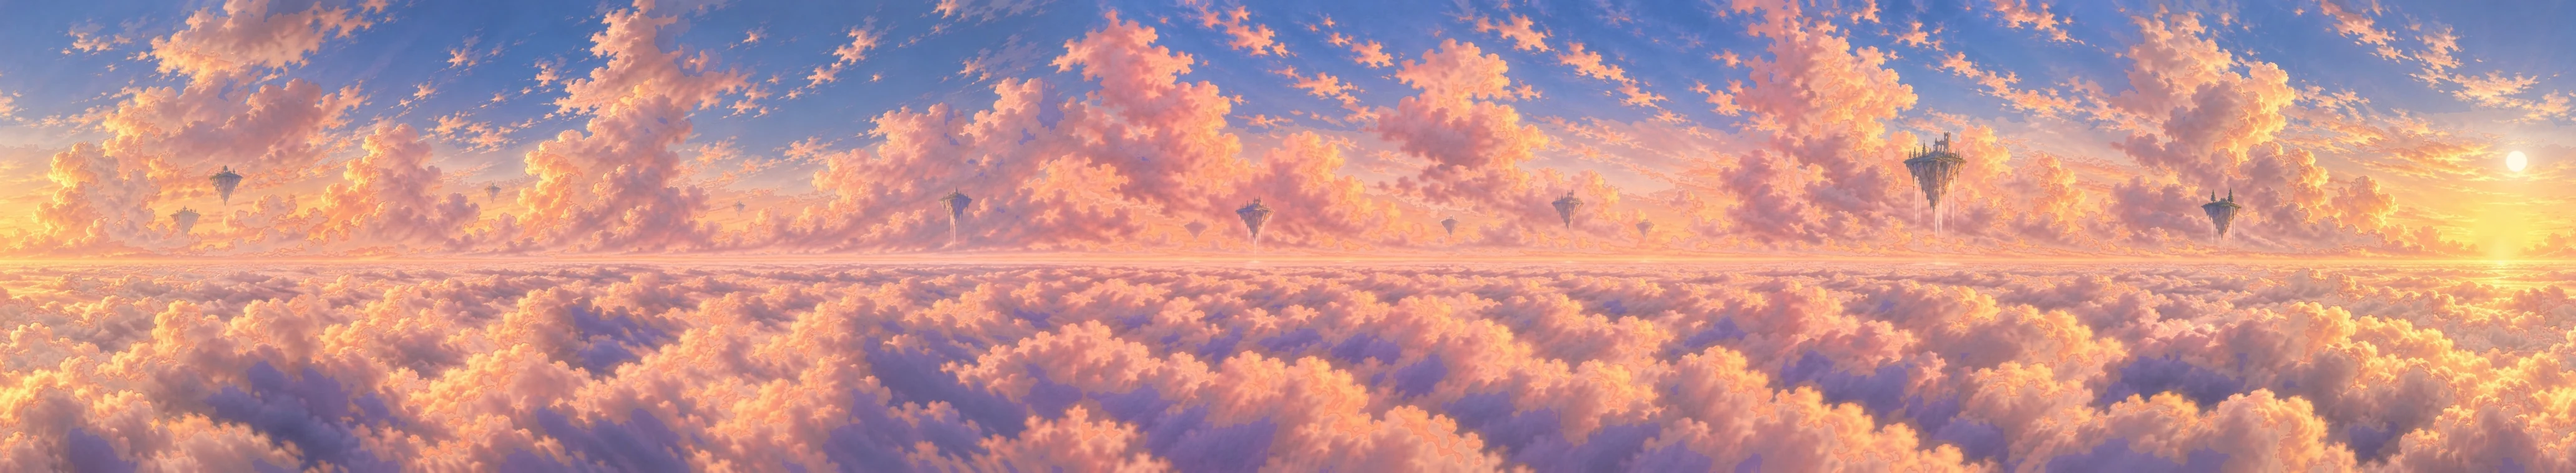
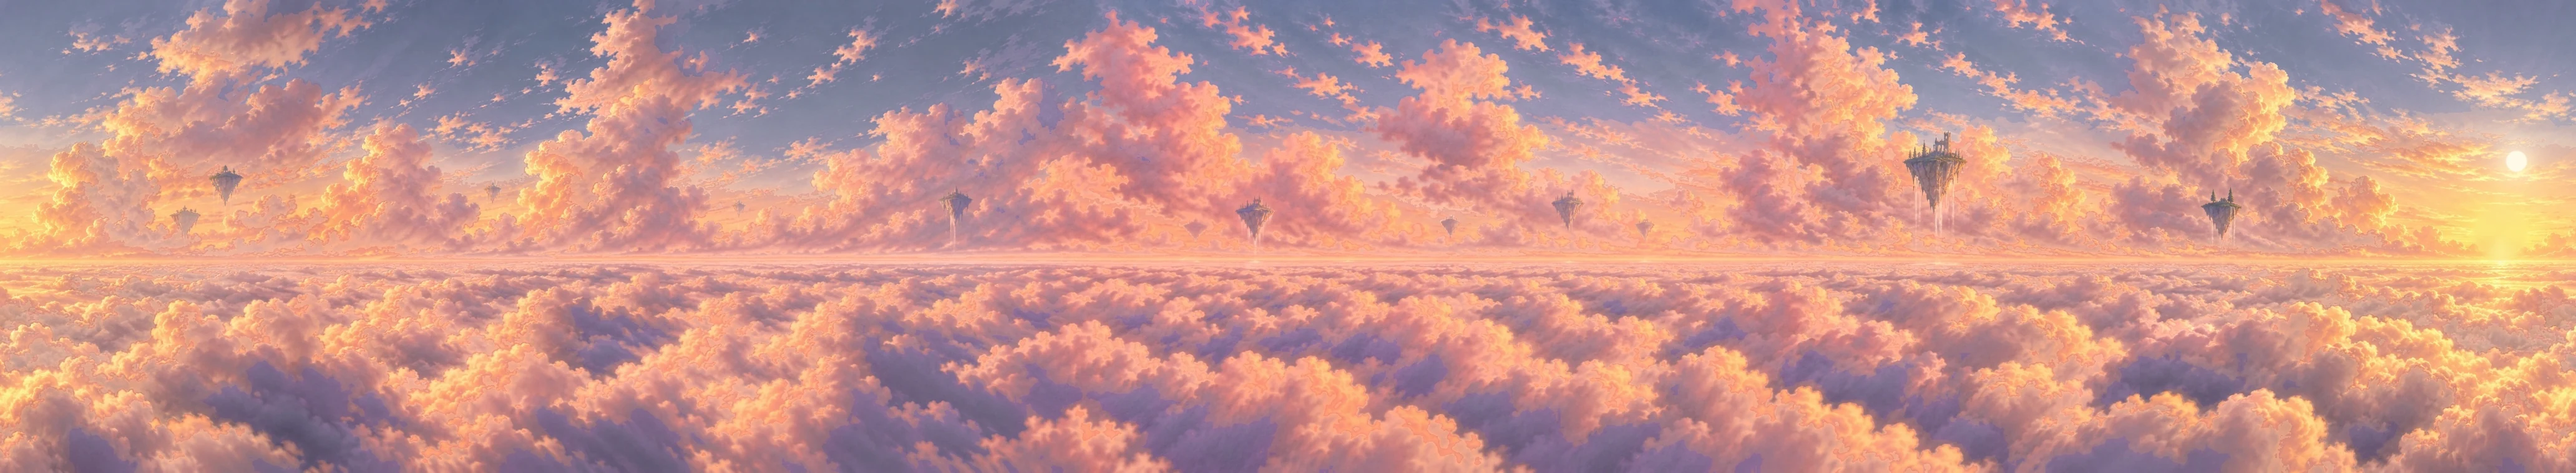
E392/E399 Sky Reach: the sun gold in an amber bloom, not white, and the panorama's blue middle sky pulled toward peach-lavender, more toward the horizon (art/far-reach/round-17-mockup-loop/warm-sky.py on panorama-sun.jpg -> panorama-warm.jpg -> prep.py 564; the seats: 'the sun white, the upper sky b
Claude-Session: https://claude.ai/code/session_01KzpL9cMyh5i2XoaL4jSdNw

Changed region(s): [[0.125, 0.0, 0.6875, 0.2124], [0.7188, 0.0, 0.9062, 0.1517], [0.0, 0.0, 0.0625, 0.0607]]

diff --git a/src/shards/far-reach/look/panoramaData.ts b/src/shards/far-reach/look/panoramaData.ts
@@ -6,9 +6,9 @@ export const PANO_DEG_PER_V = 66.667;
 /** columns of wrap on either side of the shipped strips (the shader maps the heading inside them) */
 export const PANO_PAD_PX = 16;
 /** the painted sun: heading (degrees, 0 = -z, 90 = +x) and elevation (degrees) */
-export const PANO_SUN = { heading: 352.96, elevation: 13.96 } as const;
+export const PANO_SUN = { heading: 352.96, elevation: 13.97 } as const;
 /** sRGB 0..1: the painting's top rows (the dome above them) and bottom rows (the dome below) */
-export const PANO_ZENITH_SRGB = [0.4238, 0.4814, 0.6825] as const;
-export const PANO_NADIR_SRGB = [0.6260, 0.4582, 0.5150] as const;
+export const PANO_ZENITH_SRGB = [0.4923, 0.4911, 0.6029] as const;
+export const PANO_NADIR_SRGB = [0.6287, 0.4618, 0.5067] as const;
 /** the fog LUT: per heading (64 samples from 0), the painted haze just above the horizon, sRGB 0..1 (r, g, b interleaved) */
-export const PANO_FOG_SRGB = [0.9631, 0.7315, 0.5044, 0.9561, 0.7139, 0.5179, 0.9500, 0.6851, 0.5250, 0.9426, 0.6686, 0.5400, 0.9377, 0.6620, 0.5493, 0.9380, 0.6610, 0.5532, 0.9394, 0.6613, 0.5563, 0.9430, 0.6632, 0.5586, 0.9378, 0.6594, 0.5636, 0.9302, 0.6512, 0.5650, 0.9293, 0.6497, 0.5678, 0.9275, 0.6487, 0.5712, 0.9182, 0.6428, 0.5761, 0.9141, 0.6400, 0.5818, 0.9067, 0.6330, 0.5824, 0.9104, 0.6347, 0.5842, 0.9160, 0.6381, 0.5873, 0.9136, 0.6352, 0.5880, 0.9106, 0.6333, 0.5907, 0.9115, 0.6359, 0.5953, 0.9040, 0.6356, 0.6011, 0.9027, 0.6372, 0.6054, 0.9042, 0.6372, 0.6057, 0.9074, 0.6357, 0.6015, 0.9165, 0.6377, 0.5947, 0.9255, 0.6397, 0.5883, 0.9374, 0.6430, 0.5791, 0.9519, 0.6459, 0.5697, 0.9627, 0.6487, 0.5627, 0.9666, 0.6480, 0.5560, 0.9711, 0.6505, 0.5510, 0.9691, 0.6503, 0.5533, 0.9684, 0.6529, 0.5579, 0.9632, 0.6529, 0.5638, 0.9587, 0.6526, 0.5663, 0.9599, 0.6552, 0.5656, 0.9626, 0.6612, 0.5664, 0.9634, 0.6635, 0.5667, 0.9668, 0.6679, 0.5625, 0.9691, 0.6693, 0.5563, 0.9724, 0.6710, 0.5526, 0.9744, 0.6722, 0.5522, 0.9721, 0.6719, 0.5515, 0.9697, 0.6702, 0.5490, 0.9670, 0.6690, 0.5486, 0.9651, 0.6694, 0.5509, 0.9607, 0.6657, 0.5509, 0.9593, 0.6644, 0.5473, 0.9561, 0.6615, 0.5422, 0.9559, 0.6601, 0.5394, 0.9504, 0.6576, 0.5405, 0.9472, 0.6579, 0.5399, 0.9410, 0.6540, 0.5396, 0.9341, 0.6538, 0.5415, 0.9261, 0.6509, 0.5441, 0.9244, 0.6524, 0.5423, 0.9225, 0.6534, 0.5393, 0.9296, 0.6597, 0.5293, 0.9350, 0.6760, 0.5180, 0.9430, 0.7089, 0.5138, 0.9547, 0.7277, 0.5010, 0.9653, 0.7367, 0.4926, 0.9700, 0.7387, 0.4911, 0.9707, 0.7374, 0.4922];
+export const PANO_FOG_SRGB = [0.9627, 0.7315, 0.5044, 0.9558, 0.7139, 0.5179, 0.9497, 0.6851, 0.5250, 0.9425, 0.6686, 0.5401, 0.9377, 0.6619, 0.5493, 0.9379, 0.6610, 0.5532, 0.9392, 0.6613, 0.5563, 0.9428, 0.6632, 0.5586, 0.9376, 0.6594, 0.5636, 0.9300, 0.6513, 0.5650, 0.9291, 0.6498, 0.5679, 0.9272, 0.6488, 0.5712, 0.9180, 0.6429, 0.5761, 0.9139, 0.6401, 0.5818, 0.9066, 0.6331, 0.5824, 0.9102, 0.6347, 0.5842, 0.9158, 0.6382, 0.5873, 0.9134, 0.6353, 0.5879, 0.9106, 0.6333, 0.5907, 0.9114, 0.6360, 0.5953, 0.9040, 0.6356, 0.6010, 0.9027, 0.6373, 0.6053, 0.9041, 0.6373, 0.6056, 0.9073, 0.6358, 0.6014, 0.9164, 0.6378, 0.5946, 0.9252, 0.6398, 0.5882, 0.9372, 0.6431, 0.5791, 0.9515, 0.6461, 0.5696, 0.9623, 0.6488, 0.5627, 0.9662, 0.6481, 0.5559, 0.9707, 0.6506, 0.5510, 0.9687, 0.6504, 0.5533, 0.9681, 0.6530, 0.5579, 0.9629, 0.6530, 0.5637, 0.9584, 0.6527, 0.5662, 0.9596, 0.6553, 0.5655, 0.9623, 0.6613, 0.5663, 0.9630, 0.6637, 0.5667, 0.9664, 0.6680, 0.5625, 0.9687, 0.6694, 0.5563, 0.9719, 0.6711, 0.5527, 0.9740, 0.6723, 0.5522, 0.9718, 0.6720, 0.5516, 0.9693, 0.6703, 0.5491, 0.9667, 0.6690, 0.5487, 0.9648, 0.6694, 0.5509, 0.9604, 0.6658, 0.5510, 0.9589, 0.6645, 0.5473, 0.9557, 0.6616, 0.5422, 0.9555, 0.6602, 0.5394, 0.9500, 0.6576, 0.5405, 0.9469, 0.6579, 0.5399, 0.9407, 0.6541, 0.5397, 0.9339, 0.6539, 0.5416, 0.9259, 0.6509, 0.5442, 0.9243, 0.6524, 0.5424, 0.9223, 0.6534, 0.5394, 0.9294, 0.6597, 0.5295, 0.9346, 0.6760, 0.5182, 0.9427, 0.7089, 0.5139, 0.9543, 0.7277, 0.5011, 0.9648, 0.7367, 0.4927, 0.9695, 0.7387, 0.4912, 0.9702, 0.7374, 0.4922];

diff --git a/src/shards/far-reach/look/sunGlow.ts b/src/shards/far-reach/look/sunGlow.ts
@@ -38,7 +38,8 @@ export function sunGlow(sun: Vector3): { group: Group; geometry: PlaneGeometry; 
         // through the haze): the disc itself (about the painted one's 1.5 deg), a tight hot glow and a wide warm halo
         float disc = 1.0 - smoothstep(0.085, 0.115, d);
         float core = exp(-d * d * 60.0), halo = exp(-d * 3.2) * (1.0 - smoothstep(0.7, 1.0, d));
-        gl_FragColor = vec4(vec3(1.0, 0.97, 0.88) * disc * 1.6 + vec3(1.0, 0.86, 0.58) * (core * 2.6 + halo * 1.0), 1.0);
+        // gold, not white (E399 seats: 'the sun white'): a warm disc in an amber-orange bloom
+        gl_FragColor = vec4(vec3(1.0, 0.9, 0.66) * disc * 1.5 + vec3(1.0, 0.74, 0.4) * (core * 2.4 + halo * 1.1), 1.0);
       }` });
   const bloomMesh = new Mesh(plane, bloom); bloomMesh.frustumCulled = false; bloomMesh.renderOrder = -9; group.add(bloomMesh);
   // a wide, faint gold over the sky round the sun (E399, the mockups' golden air toward the low sun)

diff --git a/art/far-reach/round-17-mockup-loop/warm-sky.py b/art/far-reach/round-17-mockup-loop/warm-sky.py
@@ -1,0 +1,15 @@
+"""warm the upper sky of the sun-raised panorama (E399 seats: 'the upper sky reads blue; the mockups are gold and peach, blue only at the very top')."""
+import numpy as np
+from PIL import Image
+D = '/Users/raynos/projects/games/wildshard-singleplayer/art/far-reach/round-17-mockup-loop/'
+a = np.asarray(Image.open(D + 'panorama-sun.jpg').convert('RGB')).astype(np.float64) / 255
+H = a.shape[0]
+row = np.linspace(0, 1, H)[:, None]
+high = np.clip((0.56 - row) / 0.56, 0, 1) ** 0.8          # 1 at the top, 0 at the horizon
+blue = np.clip((a[..., 2] - a[..., 0]) * 3.0, 0, 1)        # how blue a pixel is
+k = (0.75 * (1 - high * 0.4) * blue)[..., None]           # strongest in the middle band, keep some blue at the top
+lum = a.mean(-1, keepdims=True)
+warm = np.concatenate([lum * 1.12, lum * 0.98, lum * 0.92], -1)   # a peach-lavender grey of the same brightness
+out = a * (1 - k) + warm * k
+Image.fromarray((out.clip(0, 1) * 255).astype(np.uint8)).save(D + 'panorama-warm.jpg', quality=94)
+print('ok')
